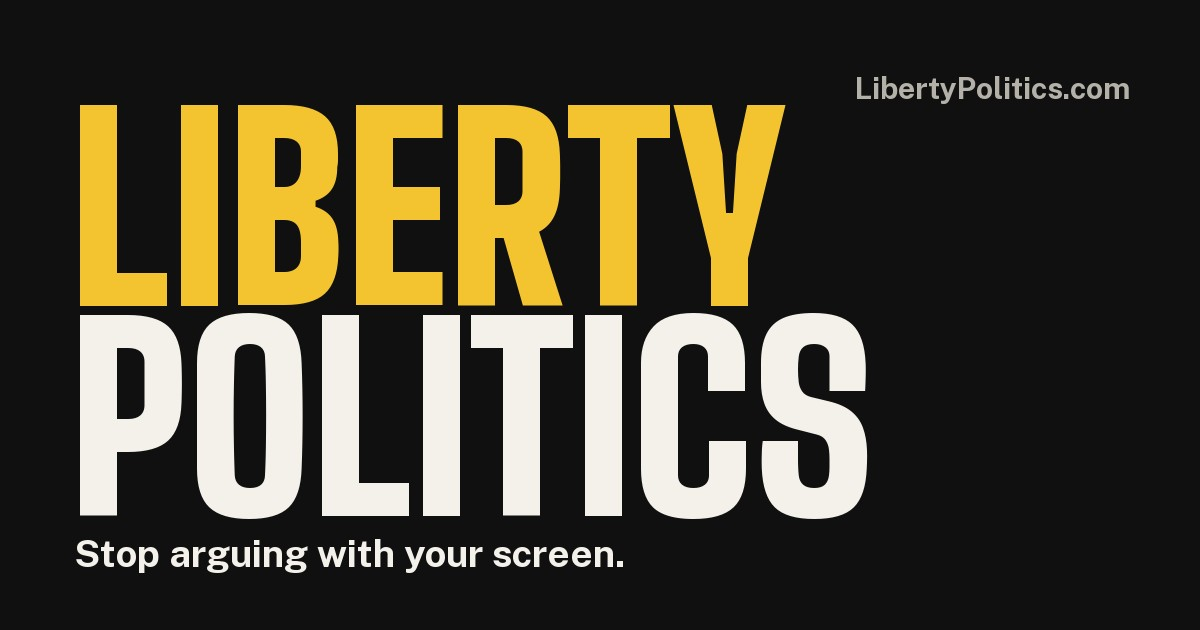
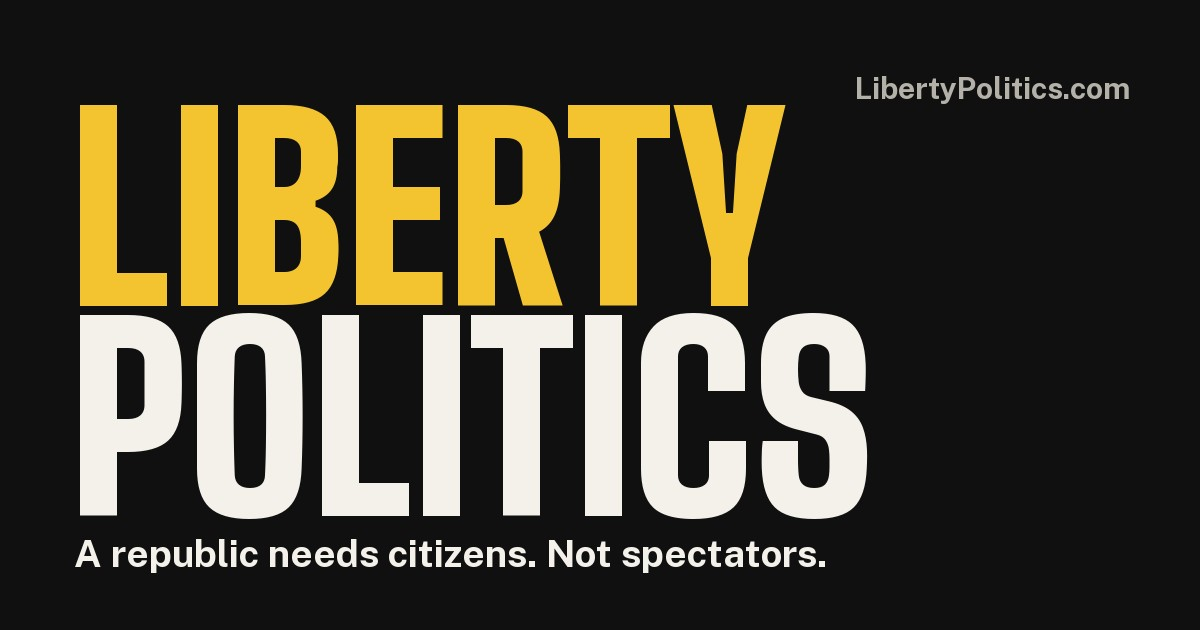
Public build

Changed region(s): [[0.0617, 0.8444, 0.6783, 0.9048]]

diff --git a/index.html b/index.html
@@ -39,8 +39,8 @@
 <main id="main">
 <div class="pane" id="record">
 <section class="hero hero-art hero-home"><picture class="art art-hero art-ai art-hero"><source media="(min-width:700px)" srcset="./img/ai-art/pnyx-assembly.webp" width="1600" height="905"><img src="./img/ai-art/pnyx-assembly-800.webp" alt="An orator on a stone platform argues to a crowd of Athenian citizens at dawn, the Acropolis glowing gold in the distance." width="800" height="452" decoding="async" fetchpriority="high"></picture><div class="wrap">
-<h1>Stop arguing<br><i>with your screen.</i></h1>
-<p class="lede">Liberty is kept by people who show up for it. Meet the ones near you, starting with one question.</p>
+<h1>A republic needs citizens.<br><i>Not spectators.</i></h1>
+<p class="lede">Athens met on a hill. The founders met in a tavern. Liberty has always started with a few people in one room.</p>
 <div class="front-q" id="front-q" data-funnel="account"><!--front-q--><link rel="stylesheet" href="./assets/members.css">
 <div class="fq" id="front-ask" data-fq="freedom" data-site="lp"><script>document.documentElement.classList.add("m-js")</script><h2 class="fq-q" id="fq-q">What&#x27;s the one freedom you&#x27;d never give up?</h2><div class="fq-a" role="group" aria-labelledby="fq-q"><button type="button" class="fq-b" data-fq-a="speech" aria-pressed="false">Saying what I think</button><button type="button" class="fq-b" data-fq-a="earn" aria-pressed="false">Keeping what I earn</button><button type="button" class="fq-b" data-fq-a="family" aria-pressed="false">Protecting my family</button><button type="button" class="fq-b" data-fq-a="kids" aria-pressed="false">Raising my kids my way</button><button type="button" class="fq-b" data-fq-a="faith" aria-pressed="false">My faith, or no faith</button><button type="button" class="fq-b" data-fq-a="other" data-fq-write aria-pressed="false">Something else</button></div><div class="fq-w" data-fq-box hidden><label for="fq-other">In your own words</label><input id="fq-other" type="text" maxlength="80" autocomplete="off" spellcheck="true"></div><p class="fq-n" data-fq-n aria-live="polite" hidden></p><a class="btn btn-key fq-go" data-fq-keep href="./build/#account" hidden>Make your account to keep your answer</a><noscript><p class="fq-ns"><a href="./build/#account">Sign in to answer and keep your answer on your account.</a></p></noscript></div><!--/front-q--></div>
 </div></section>
@@ -50,7 +50,7 @@
 <script>document.documentElement.className+=" q-js-on"</script>
 <h2>Your missions</h2>
 <p class="sec-p">Three acts. The first takes five minutes and starts with your account. The second is the one that matters: in person.</p>
-<p class="proof" data-proof-at="2026-10-14T12:08:04Z">Early days: 22 people have posted on this site so far.</p>
+<p class="proof" data-proof-at="2026-10-14T13:07:10Z">Early days: 22 people have posted on this site so far.</p>
 <div class="you-row">
 <div class="q-rank q-js" id="q-rank">
 <span class="q-ins"><span data-q-lv="0"><svg class="ins" width="64" height="64" viewBox="0 0 64 64" aria-hidden="true" focusable="false"><g fill="currentColor"><path transform="translate(28.56 52.23) rotate(151.0)" d="M0 0Q4.70 -2.90 9.40 0Q4.70 2.90 0 0Z"/><path transform="translate(35.44 52.23) rotate(29.0)" d="M0 0Q4.70 -2.90 9.40 0Q4.70 2.90 0 0Z"/><path transform="translate(28.56 52.23) rotate(231.0)" d="M0 0Q4.70 -2.90 9.40 0Q4.70 2.90 0 0Z"/><path transform="translate(35.44 52.23) rotate(-51.0)" d="M0 0Q4.70 -2.90 9.40 0Q4.70 2.90 0 0Z"/><path transform="translate(21.50 49.83) rotate(170.5)" d="M0 0Q4.70 -2.90 9.40 0Q4.70 2.90 0 0Z"/><path transform="translate(42.50 49.83) rotate(9.5)" d="M0 0Q4.70 -2.90 9.40 0Q4.70 2.90 0 0Z"/><path transform="translate(21.50 49.83) rotate(250.5)" d="M0 0Q4.70 -2.90 9.40 0Q4.70 2.90 0 0Z"/><path transform="translate(42.50 49.83) rotate(-70.5)" d="M0 0Q4.70 -2.90 9.40 0Q4.70 2.90 0 0Z"/><path transform="translate(15.65 45.22) rotate(190.0)" d="M0 0Q4.70 -2.90 9.40 0Q4.70 2.90 0 0Z"/><path transform="translate(48.35 45.22) rotate(-10.0)" d="M0 0Q4.70 -2.90 9.40 0Q4.70 2.90 0 0Z"/><path transform="translate(15.65 45.22) rotate(270.0)" d="M0 0Q4.70 -2.90 9.40 0Q4.70 2.90 0 0Z"/><path transform="translate(48.35 45.22) rotate(-90.0)" d="M0 0Q4.70 -2.90 9.40 0Q4.70 2.90 0 0Z"/></g><path d="M28.56 52.23A22 22 0 0 1 15.65 45.22M35.44 52.23A22 22 0 0 0 48.35 45.22" fill="none" stroke="currentColor" stroke-width="1.4" stroke-linecap="round"/><g transform="translate(0 -3)"><circle cx="32" cy="33" r="3.2" fill="none" stroke="currentColor" stroke-width="2"/></g></svg></span><span data-q-lv="1" hidden><svg class="ins" width="64" height="64" viewBox="0 0 64 64" aria-hidden="true" focusable="false"><g fill="currentColor"><path transform="translate(28.56 52.23) rotate(151.0)" d="M0 0Q4.70 -2.90 9.40 0Q4.70 2.90 0 0Z"/><path transform="translate(35.44 52.23) rotate(29.0)" d="M0 0Q4.70 -2.90 9.40 0Q4.70 2.90 0 0Z"/><path transform="translate(28.56 52.23) rotate(231.0)" d="M0 0Q4.70 -2.90 9.40 0Q4.70 2.90 0 0Z"/><path transform="translate(35.44 52.23) rotate(-51.0)" d="M0 0Q4.70 -2.90 9.40 0Q4.70 2.90 0 0Z"/><path transform="translate(21.50 49.83) rotate(170.5)" d="M0 0Q4.70 -2.90 9.40 0Q4.70 2.90 0 0Z"/><path transform="translate(42.50 49.83) rotate(9.5)" d="M0 0Q4.70 -2.90 9.40 0Q4.70 2.90 0 0Z"/><path transform="translate(21.50 49.83) rotate(250.5)" d="M0 0Q4.70 -2.90 9.40 0Q4.70 2.90 0 0Z"/><path transform="translate(42.50 49.83) rotate(-70.5)" d="M0 0Q4.70 -2.90 9.40 0Q4.70 2.90 0 0Z"/><path transform="translate(15.65 45.22) rotate(190.0)" d="M0 0Q4.70 -2.90 9.40 0Q4.70 2.90 0 0Z"/><path transform="translate(48.35 45.22) rotate(-10.0)" d="M0 0Q4.70 -2.90 9.40 0Q4.70 2.90 0 0Z"/><path transform="translate(15.65 45.22) rotate(270.0)" d="M0 0Q4.70 -2.90 9.40 0Q4.70 2.90 0 0Z"/><path transform="translate(48.35 45.22) rotate(-90.0)" d="M0 0Q4.70 -2.90 9.40 0Q4.70 2.90 0 0Z"/><path transform="translate(11.67 38.92) rotate(209.5)" d="M0 0Q4.70 -2.90 9.40 0Q4.70 2.90 0 0Z"/><path transform="translate(52.33 38.92) rotate(-29.5)" d="M0 0Q4.70 -2.90 9.40 0Q4.70 2.90 0 0Z"/><path transform="translate(11.67 38.92) rotate(289.5)" d="M0 0Q4.70 -2.90 9.40 0Q4.70 2.90 0 0Z"/><path transform="translate(52.33 38.92) rotate(-109.5)" d="M0 0Q4.70 -2.90 9.40 0Q4.70 2.90 0 0Z"/></g><path d="M28.56 52.23A22 22 0 0 1 11.67 38.92M35.44 52.23A22 22 0 0 0 52.33 38.92" fill="none" stroke="currentColor" stroke-width="1.4" stroke-linecap="round"/><g transform="translate(0 -3)"><path d="M24 23h16v11c0 6-4 9.500-8 11.500-4-2-8-5.500-8-11.500z" fill="none" stroke="currentColor" stroke-width="2" stroke-linejoin="round"/><circle class="y" cx="32" cy="32.500" r="2.600"/></g></svg></span><span data-q-lv="2" hidden><svg class="ins" width="64" height="64" viewBox="0 0 64 64" aria-hidden="true" focusable="false"><g fill="currentColor"><path transform="translate(28.56 52.23) rotate(151.0)" d="M0 0Q4.70 -2.90 9.40 0Q4.70 2.90 0 0Z"/><path transform="translate(35.44 52.23) rotate(29.0)" d="M0 0Q4.70 -2.90 9.40 0Q4.70 2.90 0 0Z"/><path transform="translate(28.56 52.23) rotate(231.0)" d="M0 0Q4.70 -2.90 9.40 0Q4.70 2.90 0 0Z"/><path transform="translate(35.44 52.23) rotate(-51.0)" d="M0 0Q4.70 -2.90 9.40 0Q4.70 2.90 0 0Z"/><path transform="translate(21.50 49.83) rotate(170.5)" d="M0 0Q4.70 -2.90 9.40 0Q4.70 2.90 0 0Z"/><path transform="translate(42.50 49.83) rotate(9.5)" d="M0 0Q4.70 -2.90 9.40 0Q4.70 2.90 0 0Z"/><path transform="translate(21.50 49.83) rotate(250.5)" d="M0 0Q4.70 -2.90 9.40 0Q4.70 2.90 0 0Z"/><path transform="translate(42.50 49.83) rotate(-70.5)" d="M0 0Q4.70 -2.90 9.40 0Q4.70 2.90 0 0Z"/><path transform="translate(15.65 45.22) rotate(190.0)" d="M0 0Q4.70 -2.90 9.40 0Q4.70 2.90 0 0Z"/><path transform="translate(48.35 45.22) rotate(-10.0)" d="M0 0Q4.70 -2.90 9.40 0Q4.70 2.90 0 0Z"/><path transform="translate(15.65 45.22) rotate(270.0)" d="M0 0Q4.70 -2.90 9.40 0Q4.70 2.90 0 0Z"/><path transform="translate(48.35 45.22) rotate(-90.0)" d="M0 0Q4.70 -2.90 9.40 0Q4.70 2.90 0 0Z"/><path transform="translate(11.67 38.92) rotate(209.5)" d="M0 0Q4.70 -2.90 9.40 0Q4.70 2.90 0 0Z"/><path transform="translate(52.33 38.92) rotate(-29.5)" d="M0 0Q4.70 -2.90 9.40 0Q4.70 2.90 0 0Z"/><path transform="translate(11.67 38.92) rotate(289.5)" d="M0 0Q4.70 -2.90 9.40 0Q4.70 2.90 0 0Z"/><path transform="translate(52.33 38.92) rotate(-109.5)" d="M0 0Q4.70 -2.90 9.40 0Q4.70 2.90 0 0Z"/><path transform="translate(10.03 31.65) rotate(229.0)" d="M0 0Q4.70 -2.90 9.40 0Q4.70 2.90 0 0Z"/><path transform="translate(53.97 31.65) rotate(-49.0)" d="M0 0Q4.70 -2.90 9.40 0Q4.70 2.90 0 0Z"/><path transform="translate(10.03 31.65) rotate(309.0)" d="M0 0Q4.70 -2.90 9.40 0Q4.70 2.90 0 0Z"/><path transform="translate(53.97 31.65) rotate(-129.0)" d="M0 0Q4.70 -2.90 9.40 0Q4.70 2.90 0 0Z"/></g><path d="M28.56 52.23A22 22 0 0 1 10.03 31.65M35.44 52.23A22 22 0 0 0 53.97 31.65" fill="none" stroke="currentColor" stroke-width="1.4" stroke-linecap="round"/><g transform="translate(0 -3)"><path d="M32 17v33M25 21.500h14" fill="none" stroke="currentColor" stroke-width="2" stroke-linecap="round"/><path class="y" d="M26 23h12v14l-3-2.200-3 2.200-3-2.200-3 2.200z"/></g></svg></span><span data-q-lv="3" hidden><svg class="ins" width="64" height="64" viewBox="0 0 64 64" aria-hidden="true" focusable="false"><g fill="currentColor"><path transform="translate(28.56 52.23) rotate(151.0)" d="M0 0Q4.70 -2.90 9.40 0Q4.70 2.90 0 0Z"/><path transform="translate(35.44 52.23) rotate(29.0)" d="M0 0Q4.70 -2.90 9.40 0Q4.70 2.90 0 0Z"/><path transform="translate(28.56 52.23) rotate(231.0)" d="M0 0Q4.70 -2.90 9.40 0Q4.70 2.90 0 0Z"/><path transform="translate(35.44 52.23) rotate(-51.0)" d="M0 0Q4.70 -2.90 9.40 0Q4.70 2.90 0 0Z"/><path transform="translate(21.50 49.83) rotate(170.5)" d="M0 0Q4.70 -2.90 9.40 0Q4.70 2.90 0 0Z"/><path transform="translate(42.50 49.83) rotate(9.5)" d="M0 0Q4.70 -2.90 9.40 0Q4.70 2.90 0 0Z"/><path transform="translate(21.50 49.83) rotate(250.5)" d="M0 0Q4.70 -2.90 9.40 0Q4.70 2.90 0 0Z"/><path transform="translate(42.50 49.83) rotate(-70.5)" d="M0 0Q4.70 -2.90 9.40 0Q4.70 2.90 0 0Z"/><path transform="translate(15.65 45.22) rotate(190.0)" d="M0 0Q4.70 -2.90 9.40 0Q4.70 2.90 0 0Z"/><path transform="translate(48.35 45.22) rotate(-10.0)" d="M0 0Q4.70 -2.90 9.40 0Q4.70 2.90 0 0Z"/><path transform="translate(15.65 45.22) rotate(270.0)" d="M0 0Q4.70 -2.90 9.40 0Q4.70 2.90 0 0Z"/><path transform="translate(48.35 45.22) rotate(-90.0)" d="M0 0Q4.70 -2.90 9.40 0Q4.70 2.90 0 0Z"/><path transform="translate(11.67 38.92) rotate(209.5)" d="M0 0Q4.70 -2.90 9.40 0Q4.70 2.90 0 0Z"/><path transform="translate(52.33 38.92) rotate(-29.5)" d="M0 0Q4.70 -2.90 9.40 0Q4.70 2.90 0 0Z"/><path transform="translate(11.67 38.92) rotate(289.5)" d="M0 0Q4.70 -2.90 9.40 0Q4.70 2.90 0 0Z"/><path transform="translate(52.33 38.92) rotate(-109.5)" d="M0 0Q4.70 -2.90 9.40 0Q4.70 2.90 0 0Z"/><path transform="translate(10.03 31.65) rotate(229.0)" d="M0 0Q4.70 -2.90 9.40 0Q4.70 2.90 0 0Z"/><path transform="translate(53.97 31.65) rotate(-49.0)" d="M0 0Q4.70 -2.90 9.40 0Q4.70 2.90 0 0Z"/><path transform="translate(10.03 31.65) rotate(309.0)" d="M0 0Q4.70 -2.90 9.40 0Q4.70 2.90 0 0Z"/><path transform="translate(53.97 31.65) rotate(-129.0)" d="M0 0Q4.70 -2.90 9.40 0Q4.70 2.90 0 0Z"/><path transform="translate(10.91 24.25) rotate(248.5)" d="M0 0Q4.70 -2.90 9.40 0Q4.70 2.90 0 0Z"/><path transform="translate(53.09 24.25) rotate(-68.5)" d="M0 0Q4.70 -2.90 9.40 0Q4.70 2.90 0 0Z"/><path transform="translate(10.91 24.25) rotate(328.5)" d="M0 0Q4.70 -2.90 9.40 0Q4.70 2.90 0 0Z"/><path transform="translate(53.09 24.25) rotate(-148.5)" d="M0 0Q4.70 -2.90 9.40 0Q4.70 2.90 0 0Z"/></g><path d="M28.56 52.23A22 22 0 0 1 10.91 24.25M35.44 52.23A22 22 0 0 0 53.09 24.25" fill="none" stroke="currentColor" stroke-width="1.4" stroke-linecap="round"/><g transform="translate(0 -3)"><path class="y" d="M18.500 27a13.500 9.500 0 0 1 27 0h-3.400a10 6.300 0 0 0-20.200 0z"/><path d="M23 41v-7a9 9 0 0 1 18 0v7M21 41h22M27.500 41v4.500M36.500 41v4.500" fill="none" stroke="currentColor" stroke-width="2" stroke-linecap="round" stroke-linejoin="round"/></g></svg></span><span data-q-lv="4" hidden><svg class="ins" width="64" height="64" viewBox="0 0 64 64" aria-hidden="true" focusable="false"><g fill="currentColor"><path transform="translate(28.56 52.23) rotate(151.0)" d="M0 0Q4.70 -2.90 9.40 0Q4.70 2.90 0 0Z"/><path transform="translate(35.44 52.23) rotate(29.0)" d="M0 0Q4.70 -2.90 9.40 0Q4.70 2.90 0 0Z"/><path transform="translate(28.56 52.23) rotate(231.0)" d="M0 0Q4.70 -2.90 9.40 0Q4.70 2.90 0 0Z"/><path transform="translate(35.44 52.23) rotate(-51.0)" d="M0 0Q4.70 -2.90 9.40 0Q4.70 2.90 0 0Z"/><path transform="translate(21.50 49.83) rotate(170.5)" d="M0 0Q4.70 -2.90 9.40 0Q4.70 2.90 0 0Z"/><path transform="translate(42.50 49.83) rotate(9.5)" d="M0 0Q4.70 -2.90 9.40 0Q4.70 2.90 0 0Z"/><path transform="translate(21.50 49.83) rotate(250.5)" d="M0 0Q4.70 -2.90 9.40 0Q4.70 2.90 0 0Z"/><path transform="translate(42.50 49.83) rotate(-70.5)" d="M0 0Q4.70 -2.90 9.40 0Q4.70 2.90 0 0Z"/><path transform="translate(15.65 45.22) rotate(190.0)" d="M0 0Q4.70 -2.90 9.40 0Q4.70 2.90 0 0Z"/><path transform="translate(48.35 45.22) rotate(-10.0)" d="M0 0Q4.70 -2.90 9.40 0Q4.70 2.90 0 0Z"/><path transform="translate(15.65 45.22) rotate(270.0)" d="M0 0Q4.70 -2.90 9.40 0Q4.70 2.90 0 0Z"/><path transform="translate(48.35 45.22) rotate(-90.0)" d="M0 0Q4.70 -2.90 9.40 0Q4.70 2.90 0 0Z"/><path transform="translate(11.67 38.92) rotate(209.5)" d="M0 0Q4.70 -2.90 9.40 0Q4.70 2.90 0 0Z"/><path transform="translate(52.33 38.92) rotate(-29.5)" d="M0 0Q4.70 -2.90 9.40 0Q4.70 2.90 0 0Z"/><path transform="translate(11.67 38.92) rotate(289.5)" d="M0 0Q4.70 -2.90 9.40 0Q4.70 2.90 0 0Z"/><path transform="translate(52.33 38.92) rotate(-109.5)" d="M0 0Q4.70 -2.90 9.40 0Q4.70 2.90 0 0Z"/><path transform="translate(10.03 31.65) rotate(229.0)" d="M0 0Q4.70 -2.90 9.40 0Q4.70 2.90 0 0Z"/><path transform="translate(53.97 31.65) rotate(-49.0)" d="M0 0Q4.70 -2.90 9.40 0Q4.70 2.90 0 0Z"/><path transform="translate(10.03 31.65) rotate(309.0)" d="M0 0Q4.70 -2.90 9.40 0Q4.70 2.90 0 0Z"/><path transform="translate(53.97 31.65) rotate(-129.0)" d="M0 0Q4.70 -2.90 9.40 0Q4.70 2.90 0 0Z"/><path transform="translate(10.91 24.25) rotate(248.5)" d="M0 0Q4.70 -2.90 9.40 0Q4.70 2.90 0 0Z"/><path transform="translate(53.09 24.25) rotate(-68.5)" d="M0 0Q4.70 -2.90 9.40 0Q4.70 2.90 0 0Z"/><path transform="translate(10.91 24.25) rotate(328.5)" d="M0 0Q4.70 -2.90 9.40 0Q4.70 2.90 0 0Z"/><path transform="translate(53.09 24.25) rotate(-148.5)" d="M0 0Q4.70 -2.90 9.40 0Q4.70 2.90 0 0Z"/><path transform="translate(14.20 17.57) rotate(268.0)" d="M0 0Q4.70 -2.90 9.40 0Q4.70 2.90 0 0Z"/><path transform="translate(49.80 17.57) rotate(-88.0)" d="M0 0Q4.70 -2.90 9.40 0Q4.70 2.90 0 0Z"/><path transform="translate(14.20 17.57) rotate(348.0)" d="M0 0Q4.70 -2.90 9.40 0Q4.70 2.90 0 0Z"/><path transform="translate(49.80 17.57) rotate(-168.0)" d="M0 0Q4.70 -2.90 9.40 0Q4.70 2.90 0 0Z"/></g><path d="M28.56 52.23A22 22 0 0 1 14.20 17.57M35.44 52.23A22 22 0 0 0 49.80 17.57" fill="none" stroke="currentColor" stroke-width="1.4" stroke-linecap="round"/><g transform="translate(0 -3)"><path d="M32 15v36M26 19h12" fill="none" stroke="currentColor" stroke-width="2" stroke-linecap="round"/><circle class="y" cx="32" cy="25.500" r="3.700"/><circle class="y" cx="32" cy="34" r="3.700"/><circle class="y" cx="32" cy="42.500" r="3.700"/></g></svg></span><span data-q-lv="5" hidden><svg class="ins" width="64" height="64" viewBox="0 0 64 64" aria-hidden="true" focusable="false"><g fill="currentColor"><path transform="translate(28.56 52.23) rotate(151.0)" d="M0 0Q4.70 -2.90 9.40 0Q4.70 2.90 0 0Z"/><path transform="translate(35.44 52.23) rotate(29.0)" d="M0 0Q4.70 -2.90 9.40 0Q4.70 2.90 0 0Z"/><path transform="translate(28.56 52.23) rotate(231.0)" d="M0 0Q4.70 -2.90 9.40 0Q4.70 2.90 0 0Z"/><path transform="translate(35.44 52.23) rotate(-51.0)" d="M0 0Q4.70 -2.90 9.40 0Q4.70 2.90 0 0Z"/><path transform="translate(21.50 49.83) rotate(170.5)" d="M0 0Q4.70 -2.90 9.40 0Q4.70 2.90 0 0Z"/><path transform="translate(42.50 49.83) rotate(9.5)" d="M0 0Q4.70 -2.90 9.40 0Q4.70 2.90 0 0Z"/><path transform="translate(21.50 49.83) rotate(250.5)" d="M0 0Q4.70 -2.90 9.40 0Q4.70 2.90 0 0Z"/><path transform="translate(42.50 49.83) rotate(-70.5)" d="M0 0Q4.70 -2.90 9.40 0Q4.70 2.90 0 0Z"/><path transform="translate(15.65 45.22) rotate(190.0)" d="M0 0Q4.70 -2.90 9.40 0Q4.70 2.90 0 0Z"/><path transform="translate(48.35 45.22) rotate(-10.0)" d="M0 0Q4.70 -2.90 9.40 0Q4.70 2.90 0 0Z"/><path transform="translate(15.65 45.22) rotate(270.0)" d="M0 0Q4.70 -2.90 9.40 0Q4.70 2.90 0 0Z"/><path transform="translate(48.35 45.22) rotate(-90.0)" d="M0 0Q4.70 -2.90 9.40 0Q4.70 2.90 0 0Z"/><path transform="translate(11.67 38.92) rotate(209.5)" d="M0 0Q4.70 -2.90 9.40 0Q4.70 2.90 0 0Z"/><path transform="translate(52.33 38.92) rotate(-29.5)" d="M0 0Q4.70 -2.90 9.40 0Q4.70 2.90 0 0Z"/><path transform="translate(11.67 38.92) rotate(289.5)" d="M0 0Q4.70 -2.90 9.40 0Q4.70 2.90 0 0Z"/><path transform="translate(52.33 38.92) rotate(-109.5)" d="M0 0Q4.70 -2.90 9.40 0Q4.70 2.90 0 0Z"/><path transform="translate(10.03 31.65) rotate(229.0)" d="M0 0Q4.70 -2.90 9.40 0Q4.70 2.90 0 0Z"/><path transform="translate(53.97 31.65) rotate(-49.0)" d="M0 0Q4.70 -2.90 9.40 0Q4.70 2.90 0 0Z"/><path transform="translate(10.03 31.65) rotate(309.0)" d="M0 0Q4.70 -2.90 9.40 0Q4.70 2.90 0 0Z"/><path transform="translate(53.97 31.65) rotate(-129.0)" d="M0 0Q4.70 -2.90 9.40 0Q4.70 2.90 0 0Z"/><path transform="translate(10.91 24.25) rotate(248.5)" d="M0 0Q4.70 -2.90 9.40 0Q4.70 2.90 0 0Z"/><path transform="translate(53.09 24.25) rotate(-68.5)" d="M0 0Q4.70 -2.90 9.40 0Q4.70 2.90 0 0Z"/><path transform="translate(10.91 24.25) rotate(328.5)" d="M0 0Q4.70 -2.90 9.40 0Q4.70 2.90 0 0Z"/><path transform="translate(53.09 24.25) rotate(-148.5)" d="M0 0Q4.70 -2.90 9.40 0Q4.70 2.90 0 0Z"/><path transform="translate(14.20 17.57) rotate(268.0)" d="M0 0Q4.70 -2.90 9.40 0Q4.70 2.90 0 0Z"/><path transform="translate(49.80 17.57) rotate(-88.0)" d="M0 0Q4.70 -2.90 9.40 0Q4.70 2.90 0 0Z"/><path transform="translate(14.20 17.57) rotate(348.0)" d="M0 0Q4.70 -2.90 9.40 0Q4.70 2.90 0 0Z"/><path transform="translate(49.80 17.57) rotate(-168.0)" d="M0 0Q4.70 -2.90 9.40 0Q4.70 2.90 0 0Z"/><path transform="translate(19.54 12.37) rotate(287.5)" d="M0 0Q4.70 -2.90 9.40 0Q4.70 2.90 0 0Z"/><path transform="translate(44.46 12.37) rotate(-107.5)" d="M0 0Q4.70 -2.90 9.40 0Q4.70 2.90 0 0Z"/><path transform="translate(19.54 12.37) rotate(367.5)" d="M0 0Q4.70 -2.90 9.40 0Q4.70 2.90 0 0Z"/><path transform="translate(44.46 12.37) rotate(-187.5)" d="M0 0Q4.70 -2.90 9.40 0Q4.70 2.90 0 0Z"/></g><path d="M28.56 52.23A22 22 0 0 1 19.54 12.37M35.44 52.23A22 22 0 0 0 44.46 12.37" fill="none" stroke="currentColor" stroke-width="1.4" stroke-linecap="round"/><g transform="translate(0 -3)"><path class="y" d="M32 28c-2.800-5.200-8.200-6.600-14-4.200 3.200.300 5.400 1.900 6.600 4.200-2.900-.900-5.200-.300-6.800 1.200 4.600.200 8.800 2.200 14.200 5.600 5.400-3.400 9.600-5.400 14.200-5.600-1.600-1.500-3.900-2.100-6.800-1.200 1.200-2.300 3.400-3.900 6.600-4.200-5.800-2.400-11.200-1-14 4.200z"/><circle class="y" cx="32" cy="22" r="2.400"/><path d="M32 35v16M26.500 39.500h11v5.500h-11z" fill="none" stroke="currentColor" stroke-width="2" stroke-linecap="round" stroke-linejoin="round"/></g></svg></span></span>
